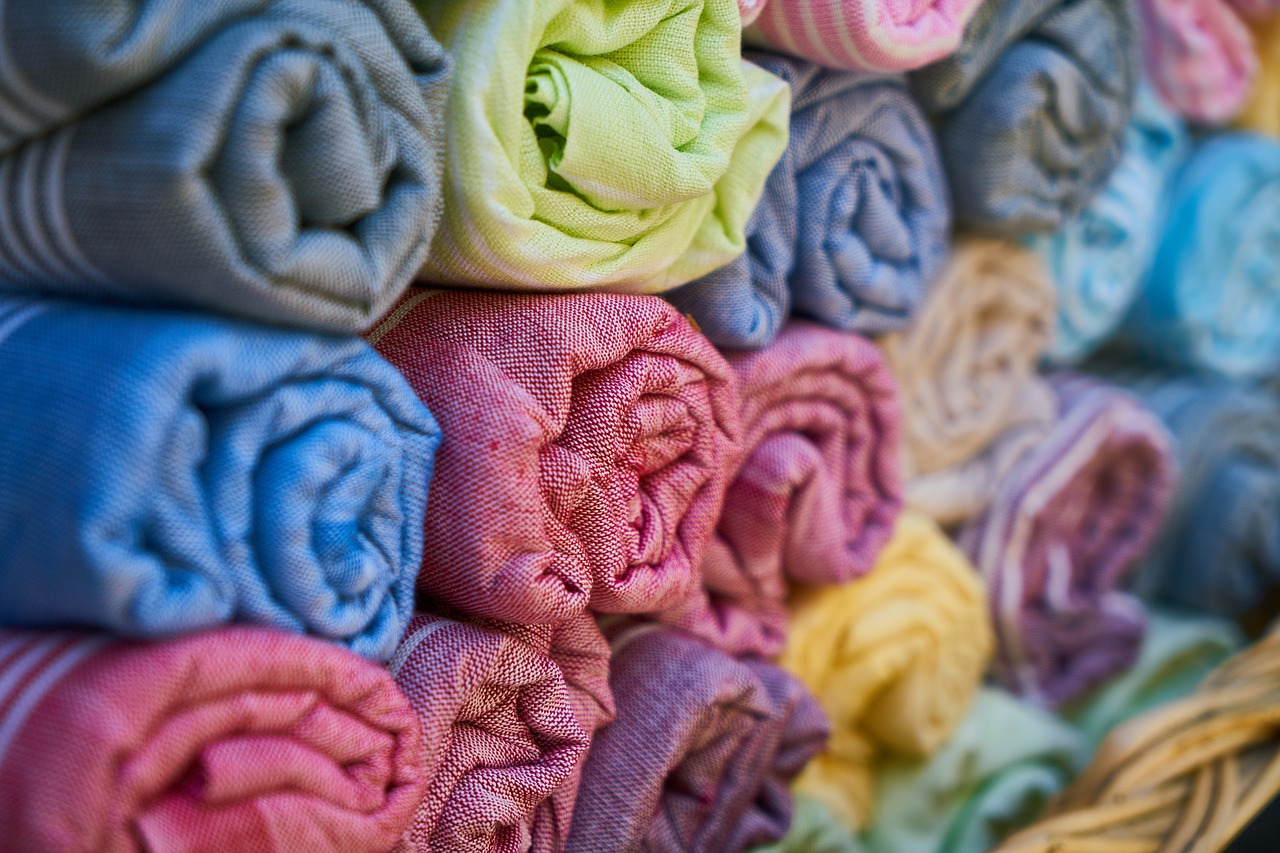
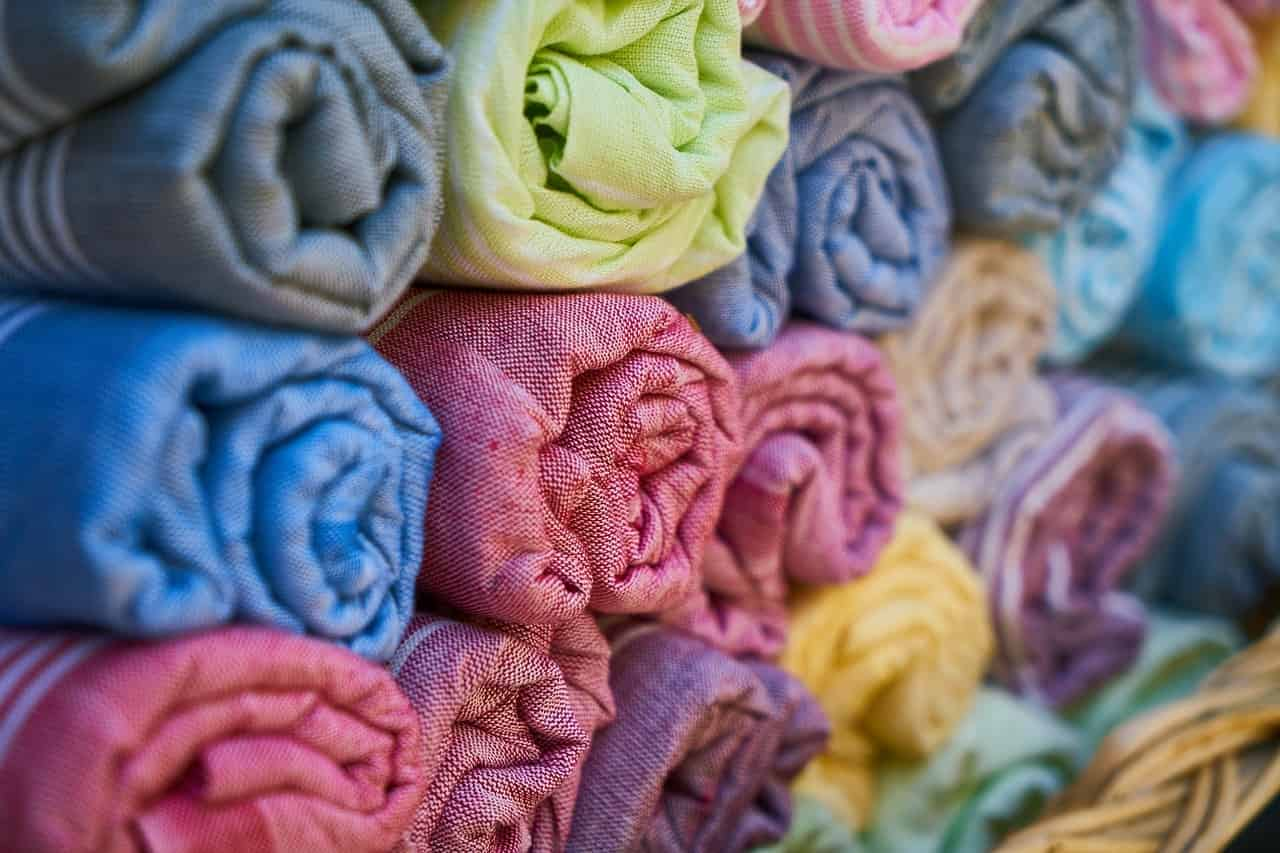
Compressed landing page image

Changed region(s): [[0.3125, 0.3353, 0.5312, 1.0], [0.5, 0.0, 0.5312, 0.0305], [0.4375, 0.2438, 0.4688, 0.2743]]

diff --git a/public/css/override.css b/public/css/override.css
@@ -1,5 +1,5 @@
 .landing-home {
-    background-image: url("../img/gei-bg-fabric-min.jpg");
+    background-image: url("../img/gei-bg-fabric.jpg");
 }
 
 .product:hover {
